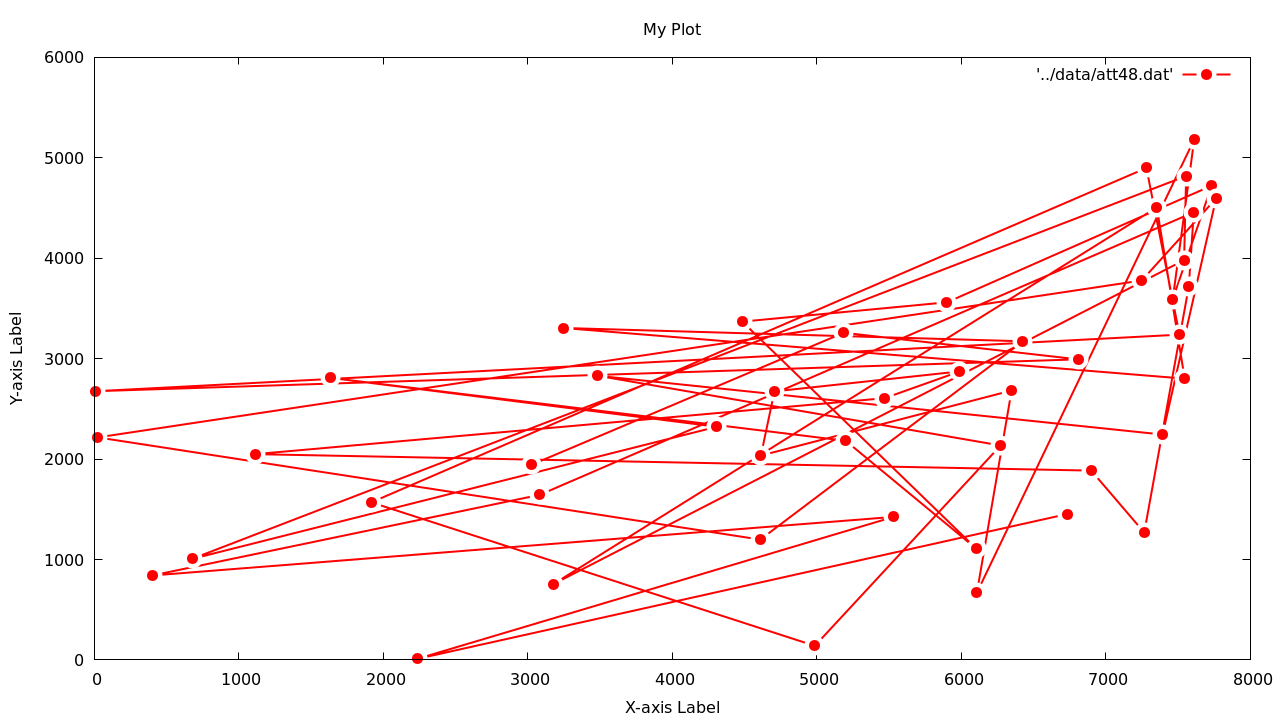
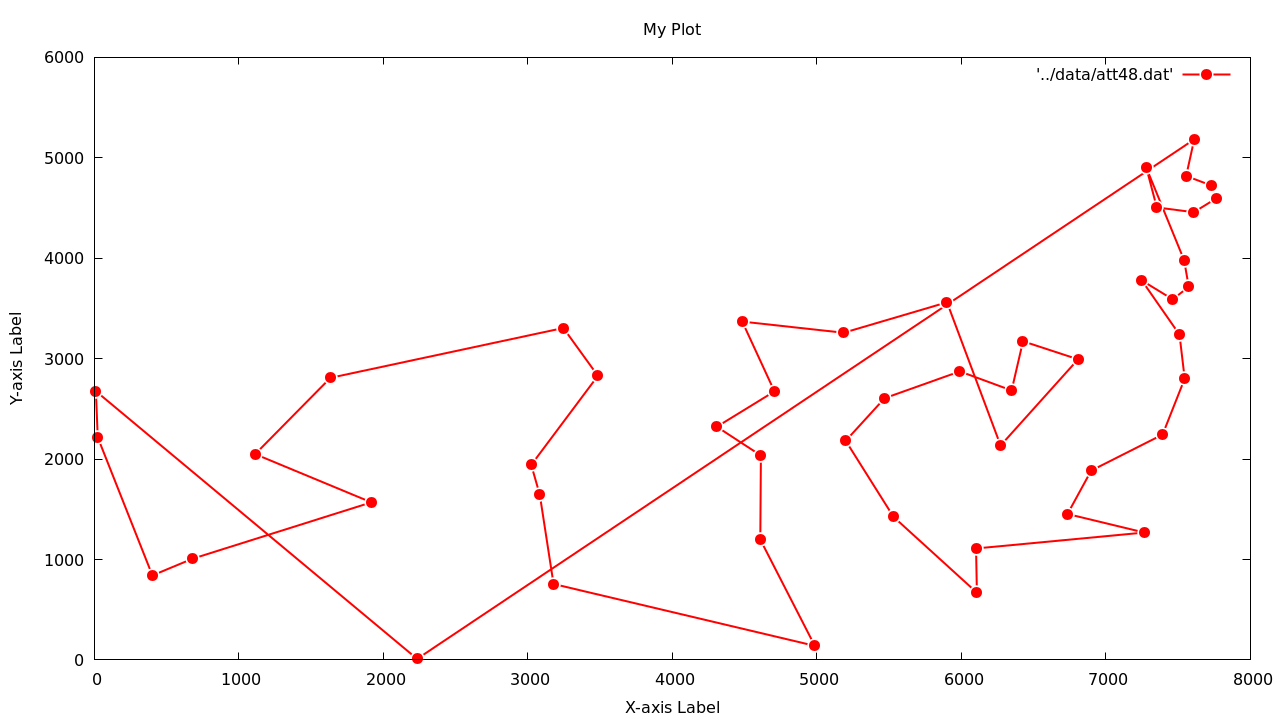
implement greedy

Changed region(s): [[0.0625, 0.1833, 0.9688, 0.9167], [0.2812, 0.8556, 0.3125, 0.8861], [0.1562, 0.6722, 0.1875, 0.7028]]

diff --git a/src/heuristics.c b/src/heuristics.c
@@ -1,0 +1,130 @@
+#include "heuristics.h"
+
+double greedy(instance* inst, int start_node) {
+    //check start node validity
+    if(start_node < 0 || start_node >= inst->nnodes)
+        print_error("Invalid start node");
+
+    //TODO track execution time
+    
+    //TODO compute all distances at the beginnig (should be the best approach)
+    compute_distances(inst);
+
+    //allocate memory for the solution (does not work here)
+    //inst->best_sol = (int *) calloc(inst->nnodes, sizeof(int));
+
+    //TODO use a local solution vector and then copy it into the best_sol instance attributes ?
+    int* solution = (int* ) calloc(inst->nnodes, sizeof(int));
+
+    //initialize all the cell to the corresponding index
+    for(int i=0; i<inst->nnodes; ++i)
+        solution[i] = i;
+    // set start point at the beginning
+    solution[0] = start_node;
+    solution[start_node] = 0;
+
+    //solution value
+    double value = 0;
+
+    // TODO use a visited array with more memory or search in the visited part of the solution array which is time consuming
+    // visited array
+    //int* visited = (int*) calloc(inst->nnodes, sizeof(int));
+    //visited[start_node] = 1;
+
+    //current node
+    int curr_node = start_node;
+    //current length of visited nodes in solution array
+    int len = 1;
+
+    //loop for the algorithm
+    while(len < inst->nnodes-1) {
+        //printf("ITERATION: [%d]\n", len);
+        /*for(int i=0; i<inst->nnodes; ++i)
+            printf("%d ", inst->best_sol[i]);
+        printf("\n");*/
+        int index = len;
+        double min =__DBL_MAX__;
+
+        //printf("NODE [%d]\n", curr_node);
+
+        //search the next node
+        for(int j=len; j<inst->nnodes; ++j) {
+            int cand_node = solution[j];
+            if(curr_node == cand_node)
+                continue;
+            double cost = get_cost(curr_node, cand_node, inst);
+            //printf("Distance from node [%d] (%f, %f) = %f\n", inst->best_sol[j], inst->points[inst->best_sol[j]].x, inst->points[inst->best_sol[j]].y, cost);
+            if(cost < min) {
+                index = j;
+                min = cost;
+            }
+        }
+
+        //printf("Nearest node: %d, index: %d\n", inst->best_sol[index], index);
+
+        //swap nodes
+        int tmp = solution[len];
+        solution[len] = solution[index];
+        solution[index] = tmp;
+
+        //update current node
+        curr_node = solution[len];
+
+        //update len
+        len++;
+
+        //increase solution value
+        value += min;
+    }
+
+    //update model solution
+    update_solution(value, solution, inst);
+
+    //printf("Start node [%d] - Solution value: %f\n", start_node, value);
+    
+    return value;
+}
+
+void greedy_iterative(instance* inst) {
+    int best_node = 0;
+    double best_cost = __DBL_MAX__;
+
+    for(int i=0; i<inst->nnodes; ++i) {
+        double cost = greedy(inst, i);
+        if(cost < best_cost) {
+            best_node = i;
+            best_cost = cost;
+        }
+    }
+
+    printf("Greedy heuristic - Best starting node = [%d] - Cost = [%f]\n", best_node, best_cost);
+}
+
+void extra_mileage(instance* inst) {
+    //compute all the distances
+    compute_distances(inst);
+
+    //furthest nodes
+    int node1 = 0;
+    int node2 = 1;
+
+    double max_dist = 0;
+
+    //find furthest nodes
+    for(int i=0; i<inst->nnodes; ++i) {
+        for(int j=i+1; j<inst->nnodes; ++j) {
+            double dist = get_cost(i, j, inst);
+            if(dist > max_dist) {
+                node1 = i;
+                node2 = j;
+                max_dist = dist;
+            }
+        }
+    }
+
+    //TODO use an edge struct, probably the best implementation
+}
+
+void grasp(instance* inst, int start_node) {
+
+}

diff --git a/src/utils.c b/src/utils.c
@@ -123,7 +123,9 @@ void parse_model(instance *inst) {
 		if(strncmp(par_name, "EDGE_WEIGHT_TYPE", 16) == 0) {
 			token1 = strtok(NULL, " :");
 			if(strncmp(token1, "ATT", 3) != 0)
-				print_error("Format error:  only EDGE_WEIGHT_TYPE == ATT implemented so far!!!!!!"); 
+				print_error("Format error:  only EDGE_WEIGHT_TYPE == ATT implemented so far!!!!!!");
+			if(inst->nnodes >= 0)
+				inst->best_sol = (int *) calloc(inst->nnodes, sizeof(int));
 			active_section = 0;
 			continue;
 		}            
@@ -142,15 +144,15 @@ void parse_model(instance *inst) {
 
         if(active_section == 1) {
             // within NODE_COORD_SECTION
-			int i = atoi(par_name) - 1; 
+			int i = atoi(par_name) - 1;
 			if(i < 0 || i >= inst->nnodes)
-				print_error("unknown node in NODE_COORD_SECTION section");     
+				print_error("unknown node in NODE_COORD_SECTION section");
 			token1 = strtok(NULL, " ");
 			token2 = strtok(NULL, " ");
 			inst->points[i].x = atof(token1);
 			inst->points[i].y = atof(token2);
 			if(do_print)
-				printf("node %4d at coordinates ( %15.7lf , %15.7lf )\n", i+1, inst->points[i].x, inst->points[i].y); 
+				printf("node %4d at coordinates ( %15.7lf , %15.7lf )\n", i+1, inst->points[i].x, inst->points[i].y);
 			continue;
 		}
 		
@@ -171,6 +173,7 @@ void parse_command_line(int argc, char** argv, instance *inst) {
 	inst->timelimit = INFINITY;
 	inst->verbose = 0;
 	inst->nnodes = 0;
+	inst->zbest = -1;
 
 	// flag for help command
     int help = 0;
@@ -201,8 +204,43 @@ void parse_command_line(int argc, char** argv, instance *inst) {
 	}
 }
 
+double dist(int i, int j, instance* inst) {
+	double dx = inst->points[i].x - inst->points[j].x;
+	double dy = inst->points[i].y - inst->points[j].y;
+
+	return sqrt(dx*dx + dy*dy);
+}
+
+void compute_distances(instance* inst) {
+	//check if nnodes is greater than 0
+	if(inst->nnodes <= 0)
+		print_error("No nodes in the graph");
+
+	//allocate memory for the costs array
+	inst->distances = (double *) calloc(inst->nnodes*inst->nnodes, sizeof(double));
+
+	for(int i=0; i<inst->nnodes; ++i) {
+		for(int j=0; j<inst->nnodes; ++j) {
+			inst->distances[i*inst->nnodes + j] = dist(i, j, inst);
+		}
+	}
+}
+
+double get_cost(int i, int j, instance* inst) {
+	return inst->distances[i*inst->nnodes + j];
+}
+
+void update_solution(double z, int* solution, instance* inst) {
+	if(inst->zbest < 0.0 || z < inst->zbest) {
+		inst->zbest = z;
+		memcpy(inst->best_sol, solution, inst->nnodes * sizeof(int));
+	}
+}
+
 void free_instance(instance *inst) {
 	free(inst->points);
+	free(inst->distances);
+	free(inst->best_sol);
 }
 
 void print_instance(instance* inst) {

diff --git a/src/plot.c b/src/plot.c
@@ -10,11 +10,19 @@ void create_dat_file(char* output_path, instance* inst) {
     FILE* fp = fopen(data_path, "w");
     if(fp == NULL)
         print_error("Error during .dat file creation");
-    for(int i = 0; i<inst->nnodes; ++i) {
-        fprintf(fp, "%f %f\n", inst->points[i].x, inst->points[i].y);
-    }
-    fclose(fp);
 
+    //write start node at the beginning
+    fprintf(fp, "%f %f\n", inst->points[inst->best_sol[0]].x, inst->points[inst->best_sol[0]].y);
+    //write all the nodes twice
+    for(int i=1; i<inst->nnodes; ++i) {
+        int node = inst->best_sol[i];
+        fprintf(fp, "%f %f\n\n", inst->points[node].x, inst->points[node].y);
+        fprintf(fp, "%f %f\n", inst->points[node].x, inst->points[node].y);
+    }
+    //write start node at the end
+    fprintf(fp, "%f %f\n", inst->points[inst->best_sol[0]].x, inst->points[inst->best_sol[0]].y);
+
+    fclose(fp);
     // set data path
     strcpy(output_path, data_path);
 }
@@ -56,7 +64,7 @@ void create_command(char* output_path, instance* inst) {
     fprintf(cf, "set ylabel 'Y-axis Label'\n\n");
 
     fprintf(cf, "set style line 1 lc rgb '#ff0000' lt 1 lw 2 pt 7 pi -1 ps 1.5\n");
-    fprintf(cf, "set pointintervalbox 3\n\n");
+    fprintf(cf, "set pointintervalbox 2\n\n");
 
     fprintf(cf, "plot '%s' with linespoints ls 1", data_path);
 
@@ -65,7 +73,7 @@ void create_command(char* output_path, instance* inst) {
     strcpy(output_path, command_path);
 }
 
-void plot_graph(instance* inst) {
+void plot_solution(instance* inst) {
     char command_path[100];
     create_command(command_path, inst);
 

diff --git a/include/utils.h b/include/utils.h
@@ -84,6 +84,43 @@ void parse_model(instance *inst);
 */
 void parse_command_line(int argc, char** argv, instance *inst);
 
+//TODO use only euclidean distance or also manhattan (no sqrt, probably faster)
+/**
+ * Compute the euclidean distance between two points
+ * 
+ * @param i index of first point
+ * @param j index of second point
+ * @param inst model instance
+ * @return euclidean distance value
+*/
+double dist(int i, int j, instance* inst);
+
+/**
+ * Compute the distances between all nodes
+ * 
+ * @param inst model instance
+*/
+void compute_distances(instance* inst);
+
+/**
+ * Get cost of the edge between nodes i and j
+ * 
+ * @param i index of first node
+ * @param j index of second node
+ * @param inst model instance
+ * @return cost of the relative edge
+*/
+double get_cost(int i, int j, instance* inst);
+
+/**
+ * Update model solution if the input cost is better
+ * 
+ * @param z solution cost
+ * @param solution candidate solution
+ * @param inst model instance
+*/
+void update_solution(double z, int* solution, instance* inst);
+
 /**
  * Free memory regarding the tsp instance
  * 

diff --git a/include/heuristics.h b/include/heuristics.h
@@ -1,0 +1,37 @@
+// HEURISTIC ALGORITHMS
+
+#pragma once
+
+#include "utils.h"
+
+/**
+ * Greedy heuristic (Nearest Neighbor)
+ * 
+ * @param inst model instance
+ * @param start_node index of the starting node
+ * @return cost of the solution
+*/
+double greedy(instance* inst, int start_node);
+
+/**
+ * Greedy heuristic performed on every node in order to find the best starting node
+ * 
+ * @param inst model isntance
+*/
+void greedy_iterative(instance* inst);
+
+/**
+ * Extra Mileage heuristic
+ * 
+ * @param inst model instance
+*/
+void extra_mileage(instance* inst);
+
+
+/**
+ * Grasp heuristic (Nearest Neighbor with random choice)
+ * 
+ * @param inst model instance
+ * @param start_node index of the starting node
+*/
+void grasp(instance* inst, int start_node);

diff --git a/src/main.c b/src/main.c
@@ -1,6 +1,7 @@
 // MAIN FILE
 
 #include "utils.h"
+#include "heuristics.h"
 #include "plot.h"
 
 int main(int argc, char** argv) {
@@ -11,7 +12,7 @@ int main(int argc, char** argv) {
         exit(1);
     }
 
-    // empty tsp instance
+    // tsp instance
     instance inst;
     
     // read user commands
@@ -20,8 +21,11 @@ int main(int argc, char** argv) {
     // read tsp instance
     parse_model(&inst);
 
+    //execute algorithm
+    greedy_iterative(&inst);
+
     //plot tsp instance
-    plot_graph(&inst);
+    plot_solution(&inst);
 
     free_instance(&inst);
     

diff --git a/include/tsp.h b/include/tsp.h
@@ -21,6 +21,8 @@ typedef struct instance {
     //input data
     int nnodes;
     point* points;
+    //TODO better to define an edge struct (?)
+    double* distances;
 
     //parameters
     char name[100];
@@ -28,4 +30,8 @@ typedef struct instance {
     double timelimit;
     char input_file[1000];
     int verbose;
+
+    //solution
+    double zbest;
+    int* best_sol;
 } instance;

diff --git a/include/plot.h b/include/plot.h
@@ -38,4 +38,4 @@ void create_command(char* output_path, instance* inst);
  * 
  * @param inst tsp model instance
 */
-void plot_graph(instance* inst);
+void plot_solution(instance* inst);
